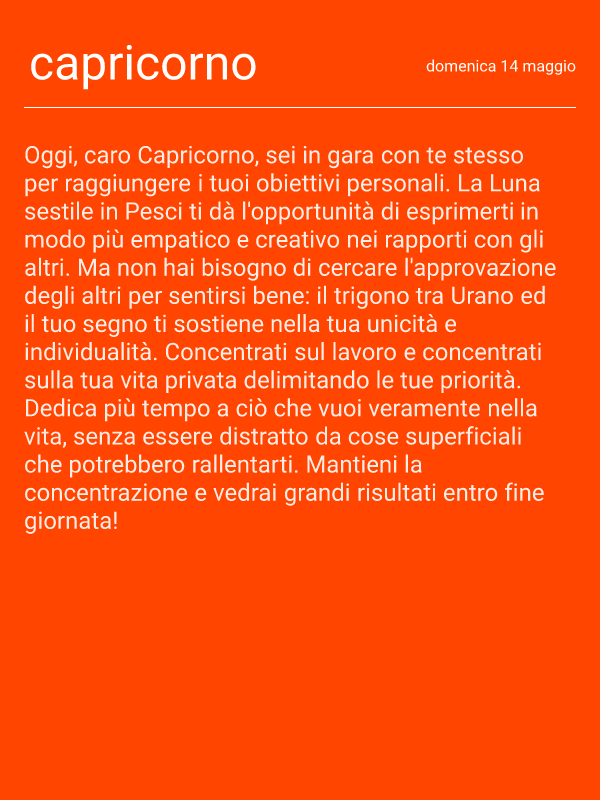
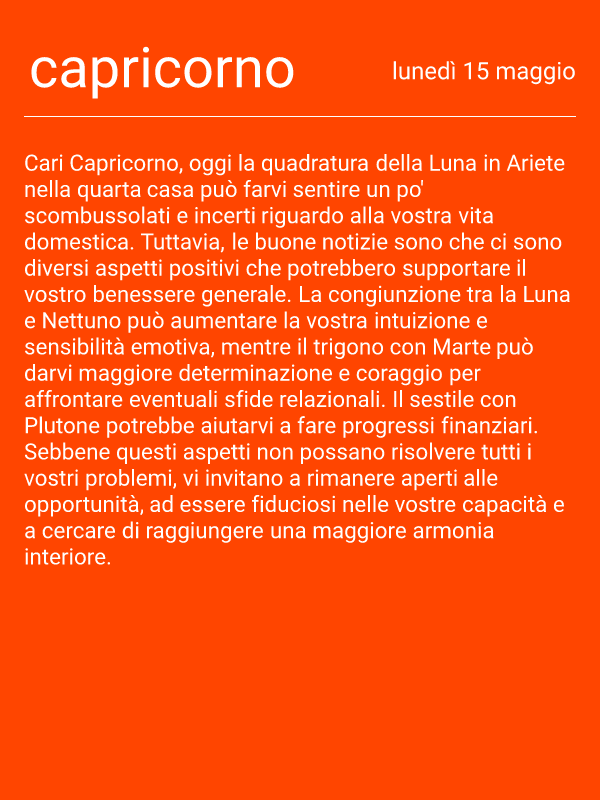
color card

Changed region(s): [[0.03, 0.1875, 0.96, 0.7188], [0.03, 0.0625, 0.51, 0.125], [0.66, 0.0625, 0.96, 0.125]]

diff --git a/helpers/dates.js b/helpers/dates.js
@@ -104,7 +104,7 @@ export function getItalianTimestamp() {
   return `${day} ${hour}:${minute}:${second}`;
 }
 
-export function getCardDate() {
+export function getTodaysCardDate() {
   const daysOfWeek = ['domenica', 'lunedì', 'martedì', 'mercoledì', 'giovedì', 'venerdì', 'sabato'];
   const monthsOfYear = ['gennaio', 'febbraio', 'marzo', 'aprile', 'maggio', 'giugno', 'luglio', 'agosto', 'settembre', 'ottobre', 'novembre', 'dicembre'];
 
@@ -115,5 +115,18 @@ export function getCardDate() {
 
   return `${dayOfWeek} ${dayOfMonth} ${month}`;
 }
+export function getCardDate(dateStr) {
+  const daysOfWeek = ['domenica', 'lunedì', 'martedì', 'mercoledì', 'giovedì', 'venerdì', 'sabato'];
+  const monthsOfYear = ['gennaio', 'febbraio', 'marzo', 'aprile', 'maggio', 'giugno', 'luglio', 'agosto', 'settembre', 'ottobre', 'novembre', 'dicembre'];
+
+  const dateOnly = dateStr.split('-').slice(0, 3).join('-');
+  const date = new Date(dateOnly);
+  const dayOfWeek = daysOfWeek[date.getDay()];
+  const dayOfMonth = date.getDate();
+  const month = monthsOfYear[date.getMonth()];
+
+  return `${dayOfWeek} ${dayOfMonth} ${month}`;
+}
+
 
 

diff --git a/playground.js b/playground.js
@@ -1,35 +1,5 @@
-import { v2 as cloudinary } from 'cloudinary'
-import dotenv from 'dotenv'
- dotenv.config()
+import { getCardDate } from "./helpers/dates.js";
 
-cloudinary.config({
-    api_key: process.env.CLOUDINARY_API_KEY,
-    api_secret: process.env.CLOUDINARY_API_SECRET,
-    secure: true,
-    cloud_name: process.env.CLOUD_NAME
+const date = getCardDate('2023-05-14')
 
-})
-console.log(cloudinary.config())
-const imagePath = './twitterCards/toro.png'
-const uploadImage = async (imagePath) => {
-
-    // Use the uploaded file's name as the asset's public ID and 
-    // allow overwriting the asset with new versions
-    const options = {
-    public_id: 'toro',
-    //   use_filename: true,
-      unique_filename: false,
-      overwrite: true,
-    };
-
-    try {
-      // Upload the image
-      const result = await cloudinary.uploader.upload(imagePath, options);
-      console.log(result);
-      return result.public_id;
-    } catch (error) {
-      console.error(error);
-    }
-};
-
-uploadImage(imagePath)
+console.log(date)

diff --git a/cards/generateAllImages.js b/cards/generateAllImages.js
@@ -1,17 +1,21 @@
 import { getDataFromDB } from "../database/getDataFromDB.js";
-import { getFormattedDate } from "../helpers/dates.js";
+import { getCardDate, getFormattedDate } from "../helpers/dates.js";
 import { generateSingleImage } from "./generateSingleImage.js";
 import { saveImgtoFolder } from "./saveImgToFolder.js";
 
 export async function generateAllImages(day) {
   const { dateColons, dateDashes } = getFormattedDate(day);
+
   const data = await getDataFromDB(dateDashes);
+  const dateString = getCardDate(dateDashes)
   const horoscopes = data[0].horoscopes;
+  console.log('DATESTRING0', dateDashes)
+
 let imgBuffers = []
   for (let sign of horoscopes) {
     const { sign: signName, horoscope } = sign;
 
-    const imgBuffer = await generateSingleImage(signName, horoscope);
+    const imgBuffer = await generateSingleImage(signName, horoscope, dateString);
     console.log("image generated");
     await saveImgtoFolder("twitterCards", signName, imgBuffer);
     imgBuffers.push({signName, imgBuffer})

diff --git a/cards/template.js b/cards/template.js
@@ -1,7 +1,6 @@
 import { getCardDate } from "../helpers/dates.js";
 
-export function generateTemplate(sign, horoscope) {
-    const todaysDate = getCardDate()
+export function generateTemplate(sign, horoscope, dateString) {
   return `  <div
     style="
       display: flex;
@@ -30,23 +29,21 @@ export function generateTemplate(sign, horoscope) {
       
       ">
       
-        <h3 style="font-weight: lighter;  margin:0 .3rem; font-size:3rem;">${sign}</h3>
+        <h3 style="font-weight: lighter;  margin:0 .3rem; font-size:3.5rem;">${sign}</h3>
       </div>
       <p
-      style=" font-size: 1rem;"
-      >${todaysDate} </p>
+      style=" font-size: 1.5rem;"
+      >${dateString} </p>
   </div>
 
     <p
       style="
-opacity: .9;
       
-        width: 97%;
-        height: 97%;
+      
         color: #fff;
         display: flex;
         flex-direction: column;
-        font-size: 1.5rem;
+        font-size: 1.4rem;
         
       "
     >

diff --git a/cards/generateSingleImage.js b/cards/generateSingleImage.js
@@ -15,12 +15,13 @@ dotenv.config()
 
 
 
-export async function generateSingleImage(sign, horoscope){
+export async function generateSingleImage(sign, horoscope, dateString){
+    console.log('DATESTRING', dateString)
     const timestamp = getItalianTimestamp()
     
   
     
-    const template = html(generateTemplate(sign, horoscope, timestamp));
+    const template = html(generateTemplate(sign, horoscope, dateString));
     
     // convert html to svg
     const fontRegular = path.resolve("./cards/Roboto-Regular.ttf")

diff --git a/index.js b/index.js
@@ -15,7 +15,7 @@ dotenv.config();
 async function main() {
   try {
     const day = 2
-    // await generateAllImages(0)
+    // await generateAllImages(3)
 await tweetAllImages(0)
 //     const day = 3 // 0 === today, 1 === tomorrow , -1 yesterday
 //     const {dateColons, dateDashes} = getFormattedDate(0)
